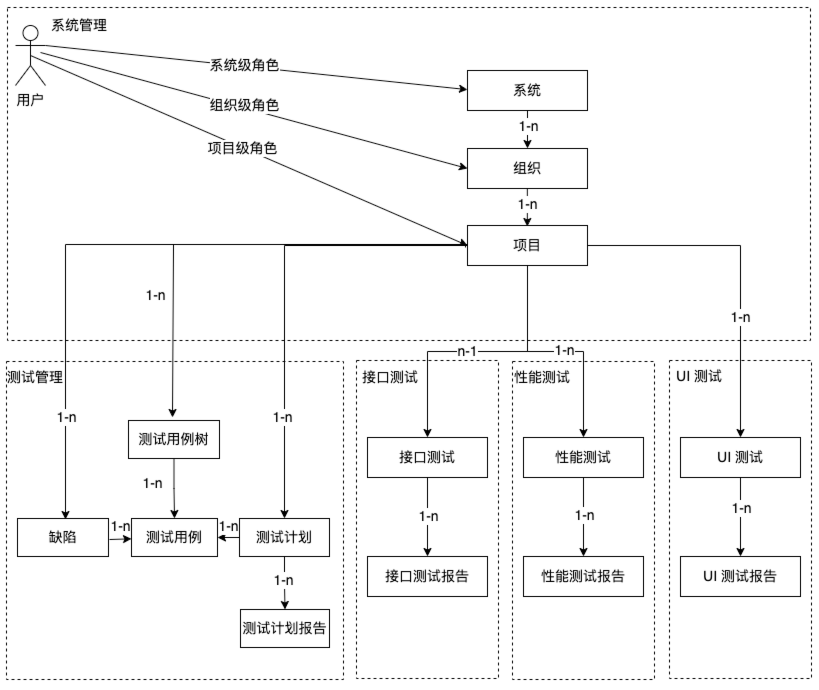
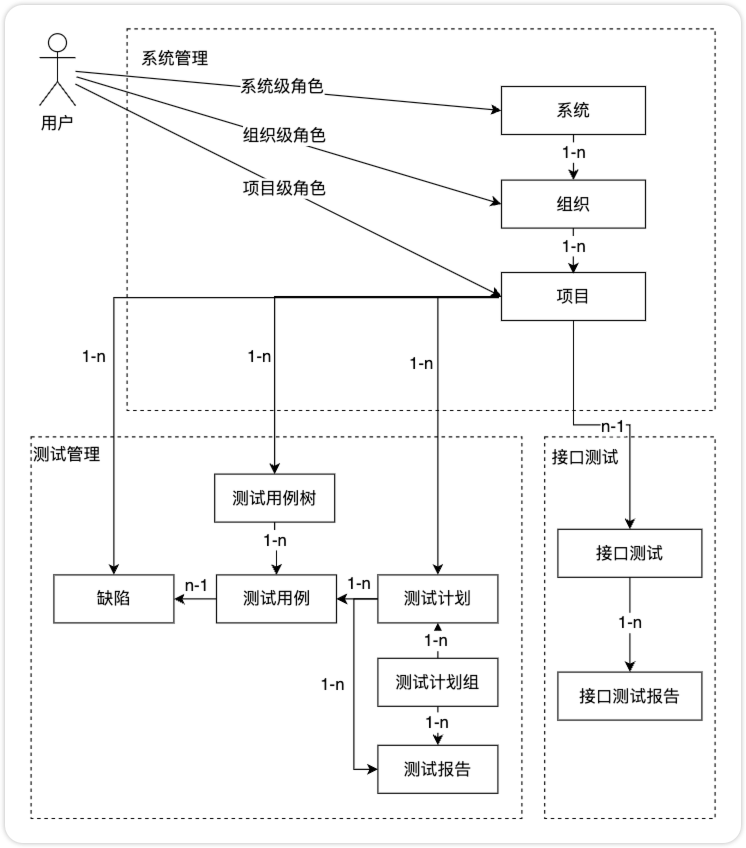
docs: 增加系统架构

diff --git a/docs/system_arch.md b/docs/system_arch.md
@@ -1,0 +1,49 @@
+---
+description: MeterSphere 一站式开源持续测试平台官方文档。MeterSphere 涵盖测试管理、接口测试、UI 测试和性能测试等功能，全面兼容 JMeter、Selenium 等主流开源标准，有效助力开发和测试团队充分利用云弹性进行高度可 扩展的自动化测试，加速高质量的软件交付。
+---
+
+## 1 整体架构
+![整体架构](./img/system-arch.png){ width="900px" }
+
+!!! ms-abstract "组件说明"
+
+	- **[Frontend](https://github.com/metersphere/metersphere)**: MeterSphere 的前端工程, 基于 Vue.js 进行开发。
+  	- **[Backend](https://github.com/metersphere/metersphere)**: MeterSphere 的后端工程, 基于 Spring Boot 进行开发, 为 MeterSphere 的功能主体。
+  	- **[Chrome 浏览器插件]**: Chrome 浏览器插件, 录制 Web 访问请求生成 JMeter 脚本并导入到 MeterSphere 中用于接口测试及性能测试。
+  	- **[Jenkins 插件]**: Jenkins 插件，在 Jenkins 中安装该插件后可将 Jenkins 任务中添加 MeterSphere 构建环节，用户在该构建环节中配置 MeterSphere 平台的认证信息后，可选择指定项目下的接口/性能测试进行触发执行。
+  	- **[IDEA 插件]**: IDEA 插件，基于javadoc解析，能够自动识别类，同步接口定义到 MeterSphere。
+  	- **[Task Runner]**: 所有执行任务统一交由 Task Runner 去调度 UI、接口、性能测试任务。
+  	- **[Result Hub]**: UI、接口、性能测试的执行结果由 Result Hub 处理。
+  	- **MySQL**: MeterSphere 项目的主要数据均存储在 MySQL。
+  	- **Redis**: MeterSphere 项目登录用户的Session存储在 Redis。
+  	- **Kafka**: 接收 Task Runner 产生的接口、UI、性能测试的结果数据。
+  	- **Prometheus**: 收集压力机及被测系统的监控数据。
+  	- **Docker Engine**: 为 Task Runner 提供 JMeter 容器运行环境。
+
+!!! ms-abstract ""
+	各个组件间的关系可参考下图：<br>
+
+![组件说明](./img/components.png){ width="900px" }
+
+## 2 管理模型
+!!! ms-abstract ""
+	MeterSphere 提供了多租户、多角色的管理模型, 用户可根据所在团队的实际情况进行灵活的租户体系映射。
+
+    - **系统**: 每个独立部署的 MeterSphere 即称为一套系统。
+    - **系统级角色**: 角色的权限范围为整个系统, 常见的角色如系统管理员、系统成员, 可管理整个系统内的租户、用户及测试资源, 同时可变更修改系统级配置参数。
+    - **组织**: MeterSphere 中的一级租户, 可映射为不同的部门或者产品线。
+    - **组织级角色**: 角色的权限范围限定在某个组织当中, 常见的角色如组织管理员及组织成员, 可在组织中创建项目、发起测试、查看测试报告等。
+    - **项目**: 以项目纬度管理各种类型测试数据，各个项目间数据隔离。
+    - **项目级角色**: 角色的权限范围限定在某个项目当中, 常见的角色如项目管理员、项目成员，可在项目中创建、修改、执行测试计划、功能测试用例、接口测试用例、、UI 测试、性能测试用例、查看测试报告等。
+    - **自定义角色**: 可创建不同所属类型的自定义角色，满足更多样化的团队管理及在线协作。
+
+![管理模型](./img/management-model.png){ width="900px" }
+
+## 3 技术栈
+!!! ms-abstract ""
+
+    - 后端: [Spring Boot](https://www.tutorialspoint.com/spring_boot/spring_boot_introduction.htm)
+    - 前端: [Vue.js](https://vuejs.org/)
+    - 中间件: [MySQL](https://www.mysql.com/), [Kafka](https://kafka.apache.org/), [Redis](https://redis.io/), [MinIO](https://min.io/), [Prometheus](https://prometheus.io/)
+    - 基础设施: [Docker](https://www.docker.com/), [Kubernetes](https://kubernetes.io/)
+    - 测试引擎: [JMeter](https://jmeter.apache.org/)
